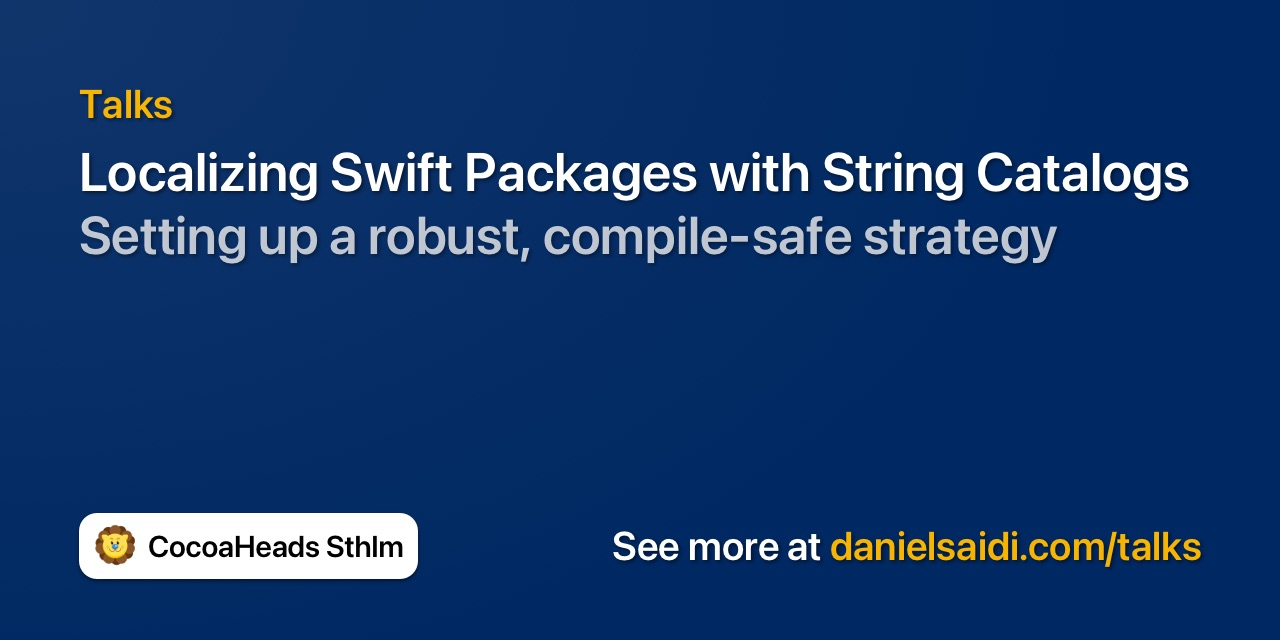
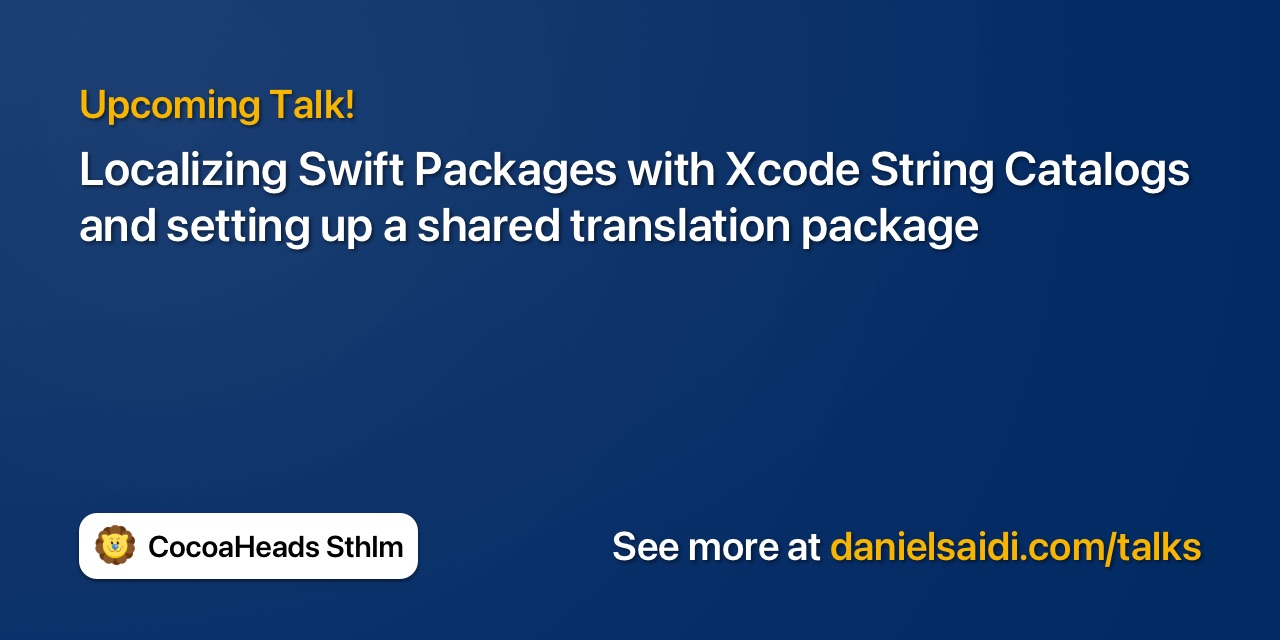
Add talk

Changed region(s): [[0.0625, 0.2188, 0.9375, 0.4375], [0.0625, 0.125, 0.2812, 0.2188]]

diff --git a/collections/_posts/2025/2025-12-14-talk-at-cocoaheads-on-swift-package-localization.md b/collections/_posts/2025/2025-12-14-talk-at-cocoaheads-on-swift-package-localization.md
@@ -1,0 +1,52 @@
+---
+title:  Upcoming Talk - Localizing Swift Packages with Xcode String Catalogs
+date:   2025-12-14 07:00:00 +0000
+tags:   conferences talks sdks spm
+
+image:  /assets/blog/25/1214/image.jpg
+image-show: 0
+
+url:    https://www.meetup.com/cocoaheads-stockholm
+post:   /blog/2025/12/02/a-better-way-to-localize-swift-packages-with-xcode-string-catalogs
+
+bsky:   https://bsky.app/profile/danielsaidi.bsky.social/post/3ll6sndqbek2g
+toot:   https://mastodon.social/@danielsaidi/114222023314551015
+---
+
+
+I'm giving a talk at [CocoaHeads Stockholm]({{page.url}}) tomorrow, December 15th, on how to use Xcode string catalogs to localize Swift packages, and how to build a shared translations package.
+
+
+## Xcode String Catalogs
+
+Xcode string catalogs were introduced at WWDC 23 as a replacement for `Localizable.strings`. It lets you manage all locales, as well as device and plural variations, with a single catalog file. 
+
+Xcode will automatically generate keys as you add new keys to your source code and SwiftUI views, and will also keep track of stale and untranslated keys. 
+
+While this is very convenient and a huge improvement from the old `.strings` file, it was still easy to break localizations by changing the key in code, either intentionally or by accident.
+
+
+## Xcode 26 Improvements
+
+Xcode 26 improves things by generating symbols for keys that are directly added to a string catalog. We can then refer to these auto-generated symbols like this:
+
+```swift
+Text(.myPackageDefinedKey)
+```
+
+These generated symbols remove the hassle of having to specify the key bundle, which was a huge pain and source of error when defining translations in a Swift package.
+
+This also gives us compile-time safety, since removing keys in use will give us compile-time errors.
+
+While this is a very big improvement to earlier year's limitations, there are still challenges in setting up a shared translation package, since these keys are internal. We'll address this in tomorrow's talk.
+
+
+## Tomorrow's Talk
+
+In tomorrow's talk, we'll look at these string catalog fundamentals, but will also cover how we can parse a string catalog and generate public keys for these internal keys.
+
+With this in place, we can use a single Swift package to localize a whole set of packages and apps, which can be very useful in a large organization or in an app that consists of many modules. 
+
+If you can't attend tomorrow's talk, I have written about this approach in [this blog post]({{page.post}}). It contains all the information you need, as well as links to external resources. 
+
+The talk and slides will be available [here](/talks) after tomorrow. Feel free to check them out and let me know what you think.

diff --git a/collections/_talks/2025-12-15-localizing-swift-packages-with-string-catalogs.md b/collections/_talks/2025-12-15-localizing-swift-packages-with-string-catalogs.md
@@ -1,6 +1,6 @@
 ---
 title: Localizing Swift Packages with String Catalogs
-date: 2025-12-15
+date: 2025-12-14
 
 assets: /assets/talks/25/1215-cocoaheads/
 image: /assets/talks/25/1215-cocoaheads/image.jpg
@@ -11,17 +11,21 @@ image: /assets/talks/25/1215-cocoaheads/image.jpg
 location: CocoaHeads Sthlm
 location-url: https://meetup.com/CocoaHeads-Stockholm
 
-slides: https://github.com/danielsaidi/website_danielsaidi/releases/download/talks/251208-CocoaHeads.zip
+slides: https://github.com/danielsaidi/website_danielsaidi/releases/download/talks-2025/251208-CocoaHeads.zip
 slides-screenshot: 1
 # video: https://www.youtube.com/watch?v=D7NuxbnY1K0&list=PL-wmxEeX64YTpDbpfszWMV76oZZO3wxZH&index=14
 
-tags: cocoaheads-sthlm slides
-tags-extra: swift localization
+post-1: /blog/2025/12/14/talk-at-cocoaheads-on-swift-package-localization
+post-2: /blog/2025/12/02/a-better-way-to-localize-swift-packages-with-xcode-string-catalogs
+
+tags: cocoaheads-sthlm slides swift l10n
 
 abstract: |  
-  This talk explores the fundamentals of Xcode string catalogs, brand new improvements in Xcode 26, and key differences between app and package implementations.
+  This talk explores Xcode string catalogs and the drastic improvemenets introduced in Xcode 26. We will look at the key differences between app and package localization and common pitfalls.
   
-  We'll also look at how to create a centralized localization package that can be shared across multiple apps and packages in your ecosystem, streamlining your localization workflow.
+  We'll also look at how we can use Xcode 26's new symbol generation to get compile-time safety, and how to set up a shared translation package that can be used by many packages and apps.
 ---
 
 I will give this talk at [{{page.location}}]({{page.location-url}}), on how to localize Swift packages with String Catalogs, and how to create a central localization package that can be shared across multiple apps and packages.
+
+This page will be available after the talk. You can read more about this talk [here]({{page.post-1}}) and see [this article]({{page.post-2}}) for a complete implementation.

diff --git a/collections/_talks/2025-05-06-lessons-earned-building-sdks-with-the-swift-package-manager.md b/collections/_talks/2025-05-06-lessons-earned-building-sdks-with-the-swift-package-manager.md
@@ -1,0 +1,25 @@
+---
+title: "Lessons Learned: Building SDKs with the Swift Package Manager"
+date: 2025-05-06
+
+location: Luni
+location-url: https://www.luni.app
+
+assets: /assets/talks/25/0506-luni/
+image: /assets/talks/25/0506-luni/slides.jpg
+image-show: 0
+images:
+  - daniel.jpg
+  - klemens.jpg
+  - chips.jpg
+  - party.jpg
+
+slides: https://github.com/danielsaidi/website_danielsaidi/releases/download/talks-2025/250512-iOSKonf-Slides.zip
+slides-screenshot: 1
+
+tags: luni slides video swift spm sdks
+
+klemens: https://x.com/klemensstrasser
+---
+
+I gave this talk at [{{page.location}}]({{page.location-url}}), in Paris, May 2025, on how to build SDKs with the Swift Package Manager. It was an amazing invite-only event with a few speakers, including [Klemens Strasser]({{page.klemens}}) (the Art of Fauna).

diff --git a/collections/_talks/2025-10-08-best-practices-in-sdk-development.md b/collections/_talks/2025-10-08-best-practices-in-sdk-development.md
@@ -11,12 +11,11 @@ images:
 location: Swift Leeds 2025
 location-url: https://www.swiftleeds.co.uk
 
-slides: https://github.com/danielsaidi/website_danielsaidi/releases/download/talks/251008-SwiftLeeds-Slides.pdf
+slides: https://github.com/danielsaidi/website_danielsaidi/releases/download/talks-2025/251008-SwiftLeeds-Slides.zip
 slides-screenshot: 1
 video: https://www.youtube.com/watch?v=D7NuxbnY1K0&list=PL-wmxEeX64YTpDbpfszWMV76oZZO3wxZH&index=14
 
-tags: swiftleeds slides video
-tags-extra: swift spm
+tags: swiftleeds slides video swift spm sdks
 
 abstract: |  
   Modern software increasingly relies on open-source and commercial, closed-source libraries, yet creating a maintainable, developer-friendly SDK remains a challenge.

diff --git a/collections/_talks/2025-05-12-distribute-and-monetize-closed-source-sdks-with-the-swift-package-manager.md b/collections/_talks/2025-05-12-distribute-and-monetize-closed-source-sdks-with-the-swift-package-manager.md
@@ -12,12 +12,11 @@ images:
   - group.jpg
   - trio.jpg
 
-slides: https://github.com/danielsaidi/website_danielsaidi/releases/download/talks/250512-iOSKonf-Slides.pdf
+slides: https://github.com/danielsaidi/website_danielsaidi/releases/download/talks-2025/250512-iOSKonf-Slides.zip
 slides-screenshot: 1
 video: https://www.youtube.com/watch?v=x8waZVY42fI&list=PLVKQDFwOy1XZXhFOdWfXKdjCz4r_LBeto&index=7
 
-tags: ioskonf slides video
-tags-extra: swift spm
+tags: ioskonf slides video swift spm sdks
 ---
 
 I gave this talk at [{{page.location}}]({{page.location-url}}), in Skopje, North Macedonia, in May 2025. on how to set up, distribute, and monetize a closed-source SDK with the Swift Package Manager.

diff --git a/collections/_talks/2025-12-05-best-practices-in-sdk-development.md b/collections/_talks/2025-12-05-best-practices-in-sdk-development.md
@@ -11,12 +11,11 @@ images:
 location: BuildStuff 2025
 location-url: https://buildstuff.events
 
-slides: https://github.com/danielsaidi/website_danielsaidi/releases/download/talks/251205-Build-Stuff.zip
+slides: https://github.com/danielsaidi/website_danielsaidi/releases/download/talks-2025/251205-Build-Stuff.zip
 slides-screenshot: 1
 # video: https://www.youtube.com/watch?v=D7NuxbnY1K0&list=PL-wmxEeX64YTpDbpfszWMV76oZZO3wxZH&index=14
 
-tags: buildstuff slides
-tags-extra: swift spm
+tags: buildstuff slides swift spm sdks
 
 leeds: /talks/2025/10/08/best-practices-in-sdk-development
 

diff --git a/pages/talks.md b/pages/talks.md
@@ -19,7 +19,7 @@ image-show: 0
 
   <p></p>
   <p>
-    Here's a list of talks and workshops that I have given at various conferences, meetups, and events. It happens when it happens.
+    Here's a list of talks and workshops that I have given at various conferences, meetups, and events.
   </p>
   
   <a name="tag-item-list"></a>

diff --git a/collections/_posts/2025/2025-03-25-im-doing-a-talk-at-ioskonf25.md b/collections/_posts/2025/2025-03-25-im-doing-a-talk-at-ioskonf25.md
@@ -1,7 +1,7 @@
 ---
 title:  I'm doing a talk at iOSKonf25
 date:   2025-03-25 07:00:00 +0000
-tags:   conferences sdks spm
+tags:   conferences talks sdks spm
 
 image:  /assets/headers/conferences/ioskonf25.png
 
